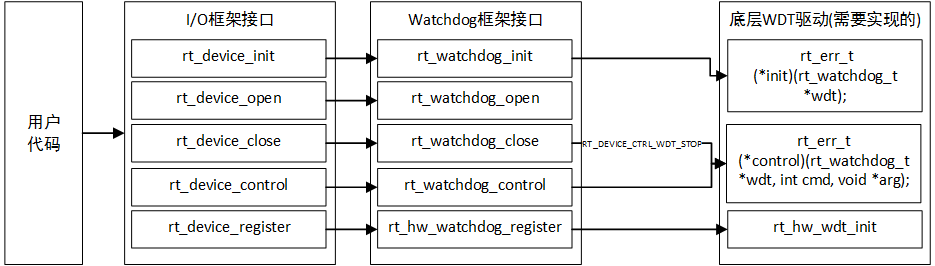
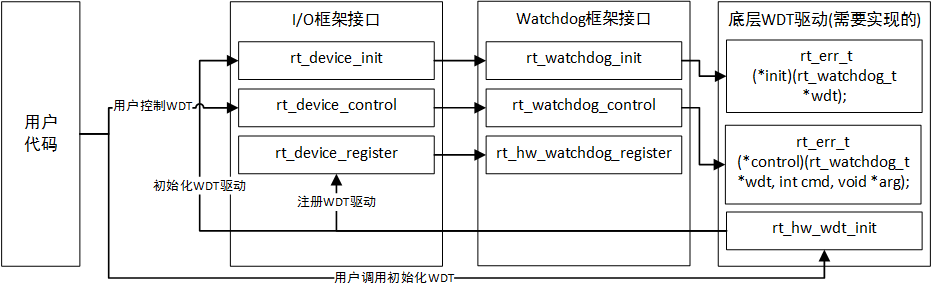
修改wdt驱动移植相关不必要的部分
1. 移除添加watchdog框架部分内容
2. 添加struct rt_watchdog_ops相关说明
3. 更新"代码框架与函数调用关系"说明图
4.
移除驱动层open和close函数，改为在control函数中RT_DEVICE_CTRL_WDT_START和RT_DEVICE_CTRL_WDT_STOP指令实现看门狗的开启和关闭
5.移除初始化看门狗中的喂狗线程，改为用户编写上层应用时自行设计

Changed region(s): [[0.0, 0.0, 1.0, 1.0], [0.7468, 0.9925, 0.9957, 1.0], [0.0, 0.9925, 0.0933, 1.0]]

diff --git a/zh/3chapters/wdt.md b/zh/3chapters/wdt.md
@@ -3,33 +3,14 @@
 ## 1.简介
 下文介绍的WDT驱动主要是依赖于IO设备框架和watchdog驱动框架。
 
-## 2.在工程中添加watchdog框架
-
-**2.1.添加看门狗宏**
-
-首先,在编写WDT驱动之前我们先再rtconfig.h配置文件中添加以下宏来开启工程对watchdog驱动框架支持：
-~~~
-#define RT_USING_WDT
-~~~
-在添加完成以上宏之后，需要使用scons重新生成工程，这里需要根据用者根据直接的平台选择对应的生成工程根据,切换到对应工程根目录下打开cmd命令行执行以下命令：
-
-**2.2.生成工程**
-
-~~~
-1. scons --target=mdk4		/* for mdk4 project */
-2. scons --target=mdk5		/* for mdk5 project */
-3. scons --target=iar		/* for iar project */
-~~~
-执行完生成工程命令之后，scons就帮我们将watchdog驱动框架相关的代码添加到了工程中，接下来就直接编写代码。
-
-## 3.介绍watchdog框架
+## 2.介绍watchdog框架
 在编写WDT驱动之前，先来讲解一下WDT框架，主要**从数据结构**、**代码框架**和**函数调用关系**三个方面来讲解。
 
-**3.1.数据结构**
+**2.1.数据结构**
 
 在wdt驱动中有两个比较重要的结构体:
 
-**3.1.1 struct rt_watchdog_device**
+**2.1.1 struct rt_watchdog_device**
 
 struct **rt_watchdog_device**结构体是从**rt_device**结构体继承而来。rt_device主要是底层IO设备框架需要的数据结构，这里我们不探究rt_device结构体。具体结构体定义如下：
 ~~~
@@ -41,7 +22,7 @@ struct rt_watchdog_device
 typedef struct rt_watchdog_device rt_watchdog_t;
 ~~~
 
-**3.1.2 struct rt_watchdog_ops**
+**2.1.2 struct rt_watchdog_ops**
 
 我们可以看见在rt_watchdog_device数据结构中除了rt_device结构体，还有**struct rt_watchdog_ops**结构体。该结构体主要是用来关联底层wdt驱动操作看门狗外设的接口，具体结构体定义如下：
 ~~~
@@ -63,29 +44,39 @@ struct rt_watchdog_ops
 
 对于以上看门狗控制命令**RT_DEVICE_CTRL_WDT_KEEPALIVE**必须实现，其他命令可以选择实现。
 
-**3.2.代码框架与函数调用关系**
+**2.2.代码框架与函数调用关系**
 
 wdt整体框架与函数调用关系如下图：
-![image](https://github.com/liu2guang/rtthread-manual-doc/tree/master/zh/3chapters/wdt.png)
+![image](wdt.png)
 
-## 4.编写wdt驱动程序
+## 3.编写wdt驱动程序
 
 这里我们用stm32f103的独立看门狗iwdg移植来讲解：
 
 移植平台：stm32f103RE
 看门狗外设：iwdg
+库版本：HAL v1.0.4
 
-**4.1.声明平台相关数据结构体IWDG_HandleTypeDef hiwdg**
+**3.1.声明平台相关数据结构体IWDG_HandleTypeDef hiwdg**
 ~~~
-IWDG_HandleTypeDef hiwdg;
+IWDG_HandleTypeDef hiwdg;	/* HAL库中iwdg操作句柄 */
 ~~~
 
-**4.2.声明结构体rt_watchdog_t**
+**3.2.声明结构体rt_watchdog_t**
 ~~~
 rt_watchdog_t iwdg_device;
 ~~~
 
-**4.3.编写WDT硬件接口函数 - 初始化看门狗**
+**3.3.声明结构体struct rt_watchdog_op**
+~~~
+struct rt_watchdog_ops ops = 
+{
+	stm32_iwdg_init,
+	stm32_iwdg_control
+};
+~~~
+
+**3.4.编写WDT硬件接口函数 - 初始化看门狗**
 ~~~
 static rt_err_t stm32_iwdg_init(rt_watchdog_t *wdt)
 {
@@ -108,44 +99,9 @@ static rt_err_t stm32_iwdg_init(rt_watchdog_t *wdt)
 }
 ~~~
 
-**4.4.编写WDT硬件接口函数 - 启动看门狗**
+**3.5.编写WDT硬件接口函数 - 控制看门狗**
 
-~~~
-static rt_err_t stm32_iwdg_open(rt_watchdog_t *wdt, rt_uint16_t oflag)
-{
-	HAL_StatusTypeDef status;
-	
-	RT_ASSERT(wdt != RT_NULL);
-
-	status = HAL_IWDG_Start(&hiwdg);
-	if(status)
-	{
-		rt_kprintf("HAL_IWDG_Start error\n");
-		return RT_EIO;
-	}	
-
-	return RT_EOK;
-}
-~~~
-
-**4.5.编写WDT硬件接口函数 - 关闭看门狗**
-
-在stm32平台上独立看门狗启动了是无法关闭的，所以这里没有对独立看门狗有任何操作，其他平台可以直接添加关闭看门狗的操作代码。
-
-~~~
-static rt_err_t stm32_iwdg_close(rt_watchdog_t *wdt)
-{
-	RT_ASSERT(wdt != RT_NULL);
-
-	rt_kprintf("[ERR] stm32 iwdg cannot close\n");
-
-	return RT_EIO;
-}
-~~~
-
-**4.6.编写WDT硬件接口函数 - 控制看门狗**
-
-这里控制看门狗主要是对获取超时时间/设置超时时间/或者剩余复位时间/喂狗/启动看门狗/关闭看门狗，除了喂狗是必须实现的命令之外，其他命令可以选择实现，这里我们只实现了喂狗命令：
+这里控制看门狗主要是对获取超时时间/设置超时时间/获取复位剩余时间/喂狗/启动看门狗/关闭看门狗，除了喂狗是必须实现的命令之外，其他命令可以选择实现，这里我们实现了喂狗命令和启动看门狗命令：
 
 ~~~
 static rt_err_t stm32_iwdg_control(rt_watchdog_t *wdt, int cmd, void *args)
@@ -156,24 +112,28 @@ static rt_err_t stm32_iwdg_control(rt_watchdog_t *wdt, int cmd, void *args)
 
 	switch(cmd)
 	{
-		case RT_DEVICE_CTRL_WDT_GET_TIMEOUT:
+		/* 获取超时时间 */
+		case RT_DEVICE_CTRL_WDT_GET_TIMEOUT:	
 		{
 			rt_kprintf("[ERR] RT_DEVICE_CTRL_WDT_GET_TIMEOUT do not implement\n");
 		}
 		break;
 
+		/* 设置超时时间 */
 		case RT_DEVICE_CTRL_WDT_SET_TIMEOUT:
 		{
 			rt_kprintf("[ERR] RT_DEVICE_CTRL_WDT_SET_TIMEOUT do not implement\n");
 		}
 		break;
 
+		/* 获取复位剩余时间 */
 		case RT_DEVICE_CTRL_WDT_GET_TIMELEFT:
 		{
 			rt_kprintf("[ERR] RT_DEVICE_CTRL_WDT_GET_TIMELEFT do not implement\n");
 		}
 		break;
 
+		/* 喂狗 */
 		case RT_DEVICE_CTRL_WDT_KEEPALIVE:
 		{
 			status = HAL_IWDG_Refresh(&hiwdg);
@@ -185,20 +145,23 @@ static rt_err_t stm32_iwdg_control(rt_watchdog_t *wdt, int cmd, void *args)
 		}
 		break;
 
+		/* 启动看门狗 */
 		case RT_DEVICE_CTRL_WDT_START:
 		{
 			status = HAL_IWDG_Start(&hiwdg);
 			if(status)
 			{
-				rt_kprintf("HAL_IWDG_Start error\n");
+				rt_kprintf("stm32 iwdg start iwdg error\n");
 				return RT_EIO;
 			}	
 		}
 		break;
 
+		/* 关闭看门狗 */
 		case RT_DEVICE_CTRL_WDT_STOP:
 		{
-			stm32_iwdg_close(wdt);
+			rt_kprintf("stm32 iwdg no support stop iwdg\n");
+			return RT_EIO;
 		}
 		break;
 
@@ -210,45 +173,40 @@ static rt_err_t stm32_iwdg_control(rt_watchdog_t *wdt, int cmd, void *args)
 }
 ~~~
 
-**4.7.向RTT注册WDT设备，初始化并打开WDT设备，并创建喂狗线程**
+**3.6.向RTT注册WDT设备，初始化并打开WDT设备**
 
 ~~~
-/* 喂狗线程 */
-void feeddog_thread(void *parameter)
-{
-	while(1)
-	{
-		stm32_iwdg_control(&iwdg_device, RT_DEVICE_CTRL_WDT_KEEPALIVE, RT_NULL);
-		
-		rt_thread_delay(RT_TICK_PER_SECOND);
-	}
-}
 
-/* 向RTT注册WDT设备，初始化并打开WDT设备，并创建喂狗线程 */
+/* 向RTT注册WDT设备，初始化并打开WDT设 */
 int stm32_hw_iwdg_init(void)
 {
-	rt_err_t err_code;
-	rt_thread_t iwdg_thread = RT_NULL;
+	rt_err_t err_code = RT_EOK;
 	
 	iwdg_device.ops = &ops;
-
-	iwdg_thread = rt_thread_create(
-		"feeddog", feeddog_thread, RT_NULL, 256, 1, 10);
 	
 	err_code = rt_hw_watchdog_register(
 		&iwdg_device, "iwdg", RT_DEVICE_FLAG_WRONLY, RT_NULL);
 
-	if(iwdg_thread != RT_NULL)
+	if(err_code != RT_EOK)
 	{
-		rt_thread_startup(iwdg_thread);
+		rt_kprintf("register iwdg drv error\n");
+		return err_code;
 	}
 
-	stm32_iwdg_init(&iwdg_device);
-	stm32_iwdg_open(&iwdg_device, RT_DEVICE_OFLAG_WRONLY);
+	err_code = iwdg_device.parent.init(&iwdg_device);
+
+	if(err_code != RT_EOK)
+	{
+		rt_kprintf("init iwdg error\n");
+		return err_code;
+	}
 
 	return err_code;
 }
 ~~~
 
+## 4.注意事项
+
+**注意用户在启动看门狗后，在设计上层应用时，应该合理的设计喂狗的时间，防止系统不必要的复位**
 
 
